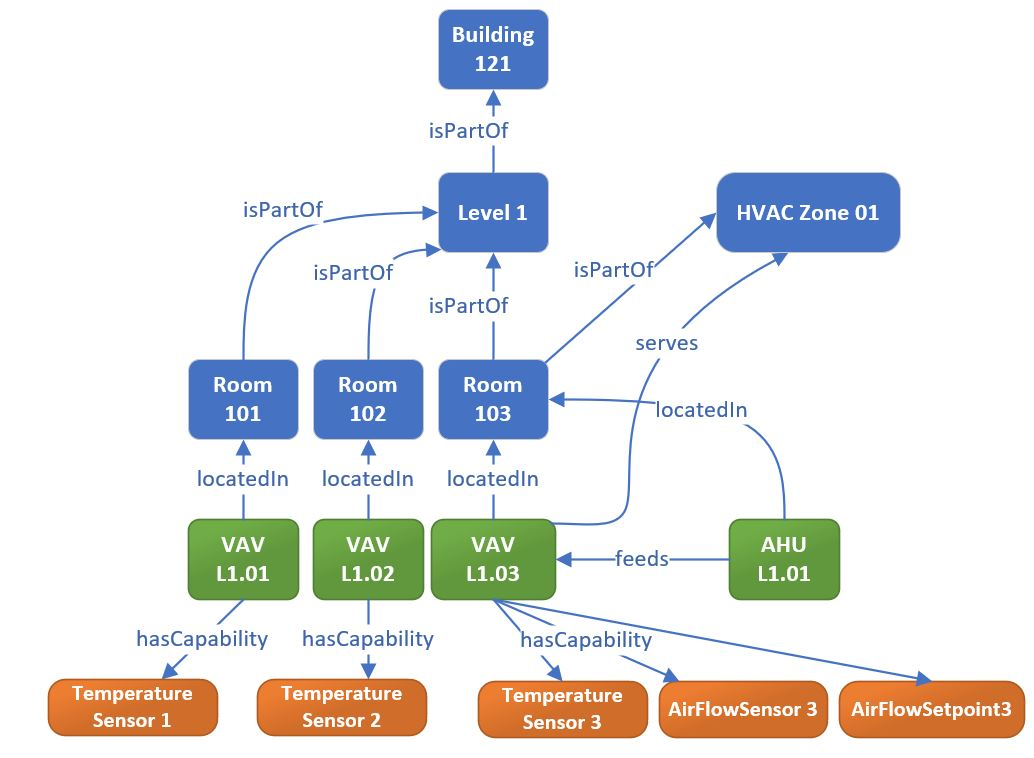
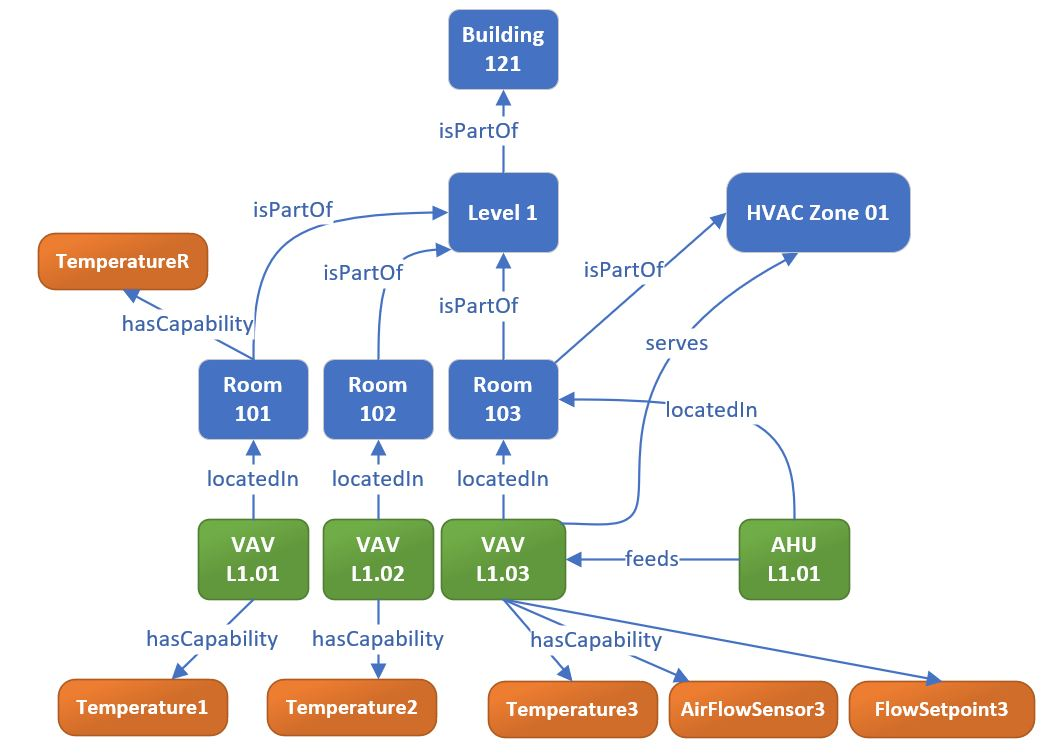
adding query example

diff --git a/README.md b/README.md
@@ -60,10 +60,40 @@ We have instantiated the following twins:
 - Three room instances *Room 101*, *Room 102* and *Room 103* of type [**dtmi:org:w3id:rec:building:ClimateControlRoom;1**](Ontology/Space/Room/UtilitiesRoom/ClimateControlRoom.json) which are part of level and *Room 103* is also part of *HVAC Zone 1*, inherited from same Space above.
 - Three VAV physical devices *VAVL1.01*, *VAVL1.02*, *VAVL1.03* of type [**dtmi:org:w3id:rec:asset:VAVBox;1**](Ontology/Asset/Equipment/HVACEquipment/TerminalUnit/VAVBox.json) with three capabilities *AirTemperatureSensor*, *AirFlowSensor* and *AirFlowSetpoint*, one serves HVAC zone and all located in rooms. VAV devices inherit from [**dtmi:org:w3id:rec:core:Asset;1**](Ontology/Asset.json)
 - An AHU physical device *AHUL1.01* of type [**dtmi:org:w3id:rec:asset:AirHandlingUnit;1**](Ontology/Asset/Equipment/HVACEquipment/AirHandlingUnit.json) which feeds one of the VAV and is located in a room. AHU device inherits from same Asset above.
-- Few capabilities instances of type [**dtmi:org:w3id:rec:core:TemperatureSensor;1**](Ontology/Capability/Sensor/TemperatureSensor.json), of type [**dtmi:org:w3id:rec:core:AirFlowSensor;1**](Ontology/Capability/Sensor/FlowSensor/AirFlowSensor.json) and of type [**dtmi:org:w3id:rec:core:FlowSetpoint;1**](Ontology/Capability/Parameter/Setpoint/FlowSensor/FlowSetpoint.json), all inherited from [**dtmi:org:w3id:rec:core:Capability;1**](Ontology/Capability.json)
+- Few capabilities instances of type [**dtmi:org:w3id:rec:core:TemperatureSensor;1**](Ontology/Capability/Sensor/TemperatureSensor.json), of type [**dtmi:org:w3id:rec:core:AirFlowSensor;1**](Ontology/Capability/Sensor/FlowSensor/AirFlowSensor.json) and of type [**dtmi:org:w3id:rec:core:FlowSetpoint;1**](Ontology/Capability/Parameter/Setpoint/FlowSensor/FlowSetpoint.json), all inherited from [**dtmi:org:w3id:rec:core:Capability;1**](Ontology/Capability.json). These are assigned using *hasCapability* relationship to VAVs. 
+- One capability instance *TemperatureR* of type [**dtmi:org:w3id:rec:core:TemperatureSensor;1**](Ontology/Capability/Sensor/TemperatureSensor.json) assigned to one of the rooms to show temperature on room level.
 
-Below is the Azure Digital Twins query to find out the all temperatures on *Level 1* on *Building 121* which values are below 70 on above. To learn more on Azure Digital Twins queries, please refer to [Query the Azure Digital Twins twin graph](https://docs.microsoft.com/azure/digital-twins/how-to-query-graph) article.
-<*add query here*>
+Below is the Azure Digital Twins query to find out all rooms' temperatures in *Building 121*, *Level 1* which values are below 73. 
+```sql
+SELECT Room, Sensor, Level 
+    FROM DIGITALTWINS Room  
+    JOIN Level RELATED Room.isPartOf
+    JOIN Sensor RELATED Room.hasCapability
+    JOIN Building RELATED Level.isPartOf
+    WHERE IS_OF_MODEL(Room, 'dtmi:org:w3id:rec:core:Room;1') 
+    AND IS_OF_MODEL(Level, 'dtmi:org:w3id:rec:core:Level;1')
+    AND IS_OF_MODEL(Building, 'dtmi:org:w3id:rec:core:Building;1')
+    AND IS_OF_MODEL(Sensor, 'dtmi:org:w3id:rec:core:TemperatureSensor;1')
+    AND Level.levelNumber = 1 
+    AND IS_DEFINED(Sensor.hasValue)
+    AND Building.$dtId = 'Building121'
+    AND Sensor.hasValue < 73
+```
+
+Another query example on above subgraph is to find the rooms which are affected by VAVs with serialNumber 2561A5510 (because it's going to be replaced).
+```sql
+SELECT VAV, Room 
+    FROM DIGITALTWINS VAV
+    JOIN Room RELATED VAV.locatedIn  
+    JOIN Level RELATED Room.isPartOf
+    JOIN Building RELATED Level.isPartOf
+    WHERE IS_OF_MODEL(Room, 'dtmi:org:w3id:rec:core:Room;1') 
+    AND IS_OF_MODEL(Level, 'dtmi:org:w3id:rec:core:Level;1')
+    AND IS_OF_MODEL(Building, 'dtmi:org:w3id:rec:core:Building;1')
+    AND Building.$dtId = 'Building121'
+    AND VAV.serialNumber ='2561A5510'
+```
+To learn more on Azure Digital Twins queries, please refer to [Query the Azure Digital Twins twin graph](https://docs.microsoft.com/azure/digital-twins/how-to-query-graph) article.
 
 ## Upload the models to Azure Digital Twins
 You can upload this ontology into your own instance of ADT by using [Model Uploader](ModelUploader). Follow the instructions on ModelUploader to upload all of these models into your own instance. Here is [an article](https://docs.microsoft.com/en-us/azure/digital-twins/how-to-manage-model) on how to manage models, update, retrieve, update, decommission and delete models.
